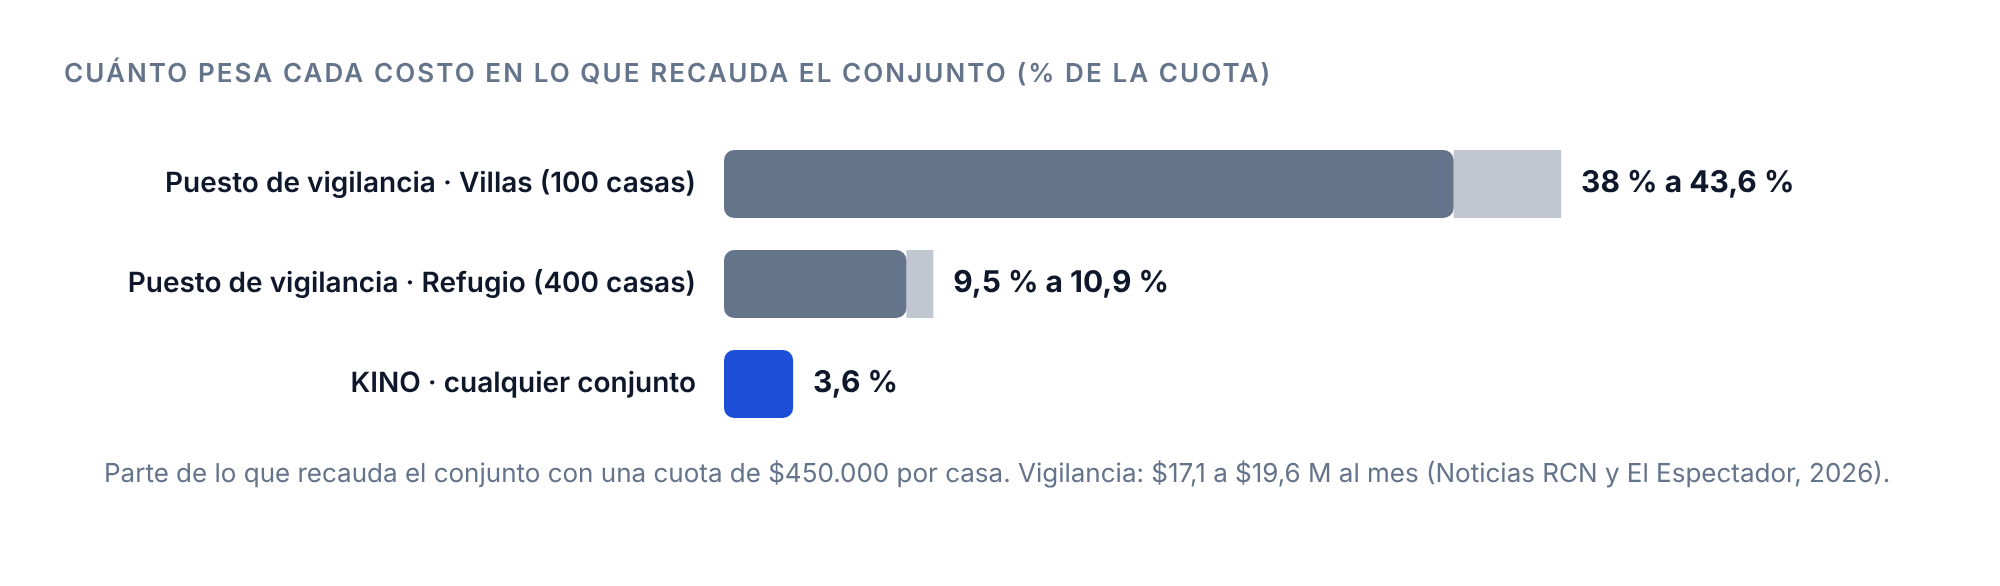
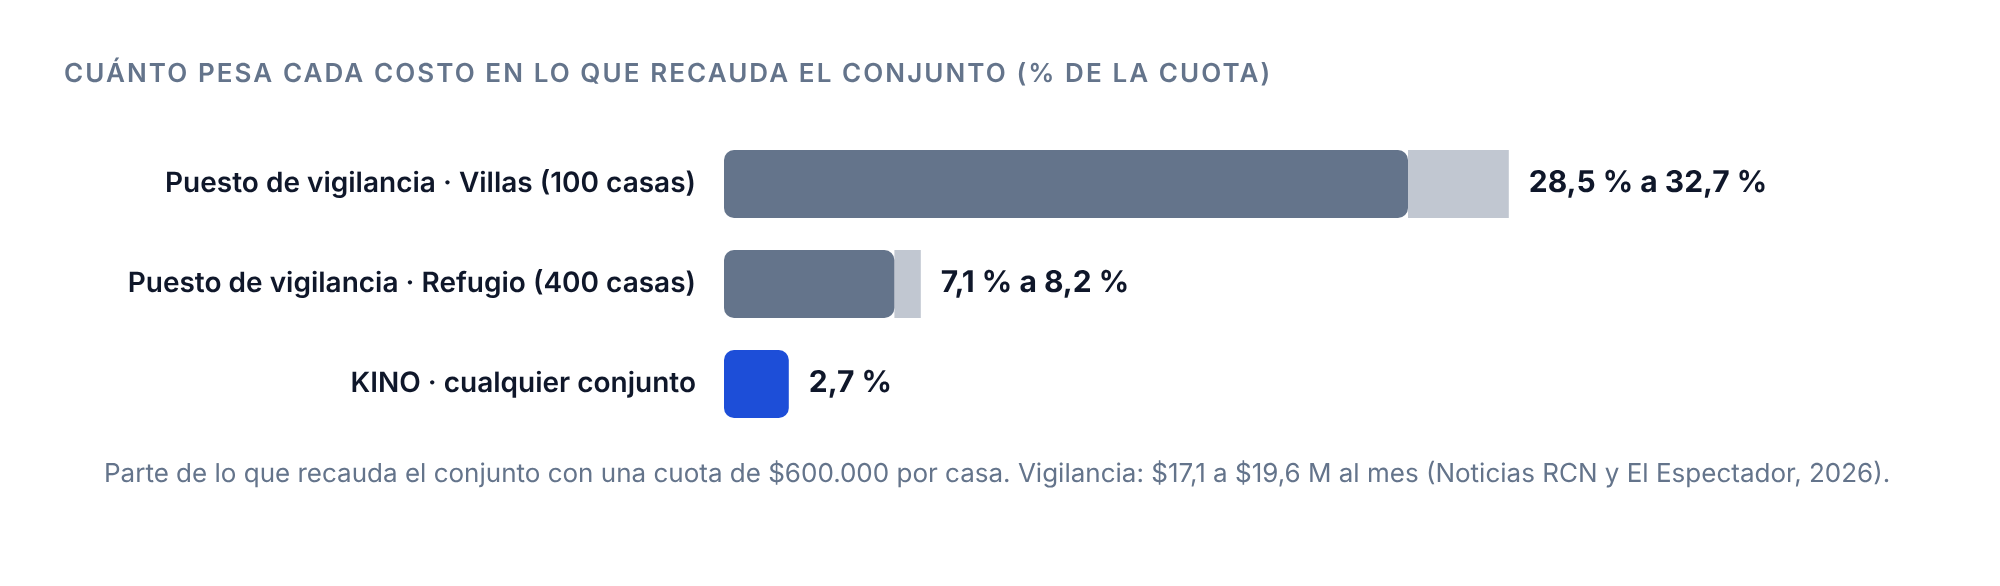
Roadmap: cuota de administración corregida a $600.000
El precio de KINO pasa a ser el 2,7 % de la cuota; se ajustan el
apartado 2.9, D-014 y la figura 14.

Claude-Session: https://claude.ai/code/session_012DQwra82ZAV2m5H2koZjXH

diff --git a/eafit/2026-11-roadmap-estrategia/entrega/figuras/fuente-figuras.html b/eafit/2026-11-roadmap-estrategia/entrega/figuras/fuente-figuras.html
@@ -360,7 +360,7 @@ ln(2781735,C.ok,'Efectivo: $2,8 M',0,'end');ln(6369735,C.ba,'Sostenimiento: $6,4
 tx(s,20,272,'Villas y Refugio juntos cubren los dos costos. Por eso la penetración de enero es la tarea con más efecto.',{fs:13,fill:C.mut});})();
 
 // 21 peso en la cuota
-(()=>{const s=document.getElementById('sv21');const L=330,W=480,max=50;const R=[['Puesto de vigilancia · Villas (100 casas)',38,43.6,C.mut],['Puesto de vigilancia · Refugio (400 casas)',9.5,10.9,C.mut],['KINO · cualquier conjunto',3.6,0,C.ac]];
+(()=>{const s=document.getElementById('sv21');const L=330,W=480,max=40;const R=[['Puesto de vigilancia · Villas (100 casas)',28.5,32.7,C.mut],['Puesto de vigilancia · Refugio (400 casas)',7.1,8.2,C.mut],['KINO · cualquier conjunto',2.7,0,C.ac]];
 R.forEach((r,i)=>{const y=14+i*50;tx(s,L-14,y+17,r[0],{a:'end',b:'middle',fw:600,fill:C.ink,fs:14});el(s,'rect',{x:L,y,width:r[1]/max*W,height:34,rx:5,fill:r[3]});if(r[2])el(s,'rect',{x:L+r[1]/max*W,y,width:(r[2]-r[1])/max*W,height:34,fill:r[3],opacity:.4});const v=r[2]?`${String(r[1]).replace('.',',')} % a ${String(r[2]).replace('.',',')} %`:`${String(r[1]).replace('.',',')} %`;tx(s,L+(r[2]||r[1])/max*W+10,y+17,v,{b:'middle',fw:700,fill:C.ink})});
-tx(s,20,180,'Parte de lo que recauda el conjunto con una cuota de $450.000 por casa. Vigilancia: $17,1 a $19,6 M al mes (Noticias RCN y El Espectador, 2026).',{fs:13,fill:C.mut});})();
+tx(s,20,180,'Parte de lo que recauda el conjunto con una cuota de $600.000 por casa. Vigilancia: $17,1 a $19,6 M al mes (Noticias RCN y El Espectador, 2026).',{fs:13,fill:C.mut});})();
 </script></body></html>

diff --git a/eafit/2026-11-roadmap-estrategia/entrega/KINO_Roadmap-estrategia-presupuesto.md b/eafit/2026-11-roadmap-estrategia/entrega/KINO_Roadmap-estrategia-presupuesto.md
@@ -19,7 +19,7 @@ KINO es una plataforma de control de acceso para conjuntos cerrados. Hoy opera e
 | ¿En qué orden crecemos? | Villas Campestres y Refugio Campestre en diciembre de 2026 y enero de 2027; 5 conjuntos nuevos del oriente antioqueño en el primer trimestre de 2027; después, el Valle de Aburrá |
 | ¿Cómo cobramos? | Cobro por casa construida, con un mínimo por conjunto + implementación única + comisión por cada pago de la cuota en la app, desde el primer conjunto |
 | ¿Cuándo está lista la app? | En diciembre de 2026, completa y con pagos. En enero de 2027, el 80 % de las casas de Villas y Refugio la usa |
-| ¿Cuánto cobramos? | $16.000 por casa al mes, con un mínimo de $1.200.000 por conjunto: el 3,6 % de la cuota de administración |
+| ¿Cuánto cobramos? | $16.000 por casa al mes, con un mínimo de $1.200.000 por conjunto: el 2,7 % de la cuota de administración |
 | ¿Cuánto cuesta y cuándo se sostiene? | $2,8 millones al mes en efectivo ($1,4 millones con la alternativa más barata). Villas y Refugio lo cubren desde febrero de 2027. Escenario base a diciembre de 2027: +$192 millones en efectivo |
 
 ![Figura 1. Mapa del documento. Cada capítulo responde una pregunta.](figuras/f01.png){width=100%}
@@ -204,10 +204,10 @@ El precio se justifica con tres referencias:
 | Referencia | Qué dice | Dato |
 |---|---|---|
 | Costo | Lo que cuesta atender a los conjuntos | $2,8 millones al mes en efectivo; $6,4 millones con el trabajo de los socios (capítulo 5) |
-| Techo | Lo que el residente ya paga y lo que el conjunto gasta en portería | Cuota de administración promedio de Villas y Refugio: $450.000 al mes por casa [9]. Un puesto de vigilancia 24 horas: $17,1 a $19,6 millones al mes [10] [11] |
+| Techo | Lo que el residente ya paga y lo que el conjunto gasta en portería | Cuota de administración promedio de Villas y Refugio: $600.000 al mes por casa [9]. Un puesto de vigilancia 24 horas: $17,1 a $19,6 millones al mes [10] [11] |
 | Ancla | El precio de su competidor directo, Unita | $1.550.000 al mes por conjunto + $10.900 al mes por casa [5]. KINO no lo copia: cobra solo por casa |
 
-**Por qué no copia a Unita.** Unita cobra un piso fijo más una tarifa por casa [5]. KINO cobra solo por casa, con un mínimo que cubre el soporte de un conjunto pequeño (inferido). El residente lo entiende en una línea: el 3,6 % de su cuota. Además, KINO da lo que Unita no tiene: el KEY sin cuenta para la visita y la integración probada con el hardware del conjunto (apartado 1.3).
+**Por qué no copia a Unita.** Unita cobra un piso fijo más una tarifa por casa [5]. KINO cobra solo por casa, con un mínimo que cubre el soporte de un conjunto pequeño (inferido). El residente lo entiende en una línea: el 2,7 % de su cuota. Además, KINO da lo que Unita no tiene: el KEY sin cuenta para la visita y la integración probada con el hardware del conjunto (apartado 1.3).
 
 | Conjunto | KINO al mes | Unita al mes [5] | Diferencia |
 |---|---|---|---|
@@ -219,17 +219,17 @@ KINO es más barato hasta 304 casas y un poco más caro por encima. El conjunto 
 
 ![Figura 12. Cuánto paga cada conjunto al mes con el precio de KINO.](figuras/f10.png){width=100%}
 
-**Cuánto pesa KINO en la cuota.** Con una cuota de $450.000, KINO cuesta el 3,6 % de lo que paga cada casa, en cualquier conjunto. En lo que recauda cada conjunto, un puesto de vigilancia pesa entre el 9,5 % (Refugio) y el 44 % (Villas) (figura 14).
+**Cuánto pesa KINO en la cuota.** Con una cuota de $600.000, KINO cuesta el 2,7 % de lo que paga cada casa, en cualquier conjunto. En lo que recauda cada conjunto, un puesto de vigilancia pesa entre el 7,1 % (Refugio) y el 33 % (Villas) (figura 14).
 
 ![Figura 13. KINO frente al costo de un puesto de vigilancia.](figuras/f11.png){width=100%}
 
 ![Figura 14. Cuánto pesa cada costo en la cuota de administración.](figuras/f21.png){width=100%}
 
-**Margen por pago (supuesto, por decidir).** $2.000 por pago es el 0,44 % de la cuota. Es menos que la tarifa de la pasarela: con Wompi, un pago de $450.000 cuesta cerca de $15.024 en línea y $5.355 con QR, con IVA [16]. Quién asume la tarifa de la pasarela sigue por decidir (apartado 2.8).
+**Margen por pago (supuesto, por decidir).** $2.000 por pago es el 0,33 % de la cuota. Es menos que la tarifa de la pasarela: con Wompi, un pago de $600.000 cuesta cerca de $19.754 en línea y $7.140 con QR, con IVA [16]. Quién asume la tarifa de la pasarela sigue por decidir (apartado 2.8).
 
 **Lectura (inferido).**
 
-1. El 3,6 % de la cuota es igual para todo conjunto: el precio no castiga al conjunto pequeño.
+1. El 2,7 % de la cuota es igual para todo conjunto: el precio no castiga al conjunto pequeño.
 2. Frente a un puesto de vigilancia, Villas paga KINO con el 9 % de lo que cuesta el puesto y Refugio con cerca del 35 %.
 3. El costo de portería propio de Villas y Refugio todavía no está. Cuando llegue, reemplaza la cifra de mercado del techo.
 
@@ -332,7 +332,7 @@ Horizonte: noviembre de 2026 a diciembre de 2027 (14 meses). Fuente de dinero: c
 | Equipo | Nadie cobra; todos son socios | [9] |
 | Unidades | Villas Campestres: 100 casas construidas. Refugio Campestre: 400 casas construidas | [9] |
 | Conjunto nuevo | 200 casas construidas (supuesto) | |
-| Cuota de administración | $450.000 al mes por casa, promedio de Villas y Refugio | [9] |
+| Cuota de administración | $600.000 al mes por casa, promedio de Villas y Refugio | [9] |
 | Calendario | Refugio se implementa en diciembre de 2026. Villas y Refugio pagan desde febrero de 2027, después de H2. Los 5 conjuntos nuevos firman en el primer trimestre y se implementan uno por mes (supuesto) | [9] |
 | Pagos en la app | Parte de las casas que paga la cuota en la app: 30 %, 50 % o 80 % según el escenario (supuesto) | |
 | Margen por pago | $2.000 (supuesto, por decidir) | Apartado 2.9 |

diff --git a/kino/canon/decisiones.md b/kino/canon/decisiones.md
@@ -258,6 +258,6 @@ Cambia la parte de cobro mensual de D-010 (piso por conjunto + cobro por casa). 
 | B | Piso $1.000.000 + $8.000 por casa | $1.800.000 | $4.200.000 | Villas y Refugio apenas cubren el sostenimiento |
 | C | Igual a Unita: $1.550.000 + $10.900 por casa | $2.640.000 | $5.910.000 | Se lee como copia del competidor |
 
-**Por qué.** Con una cuota de administración de $450.000, $16.000 es el 3,6 % de lo que paga cada casa en cualquier conjunto. KINO queda más barato que Unita hasta 304 casas y no castiga al conjunto pequeño.
+**Por qué.** Con una cuota de administración de $600.000 (dato corregido por Alejandro el 9 nov 2026), $16.000 es el 2,7 % de lo que paga cada casa en cualquier conjunto. KINO queda más barato que Unita hasta 304 casas y no castiga al conjunto pequeño.
 
 **Trazabilidad y HikCentral.** No cambia el KEY, la autoridad del residente ni la sincronización.
